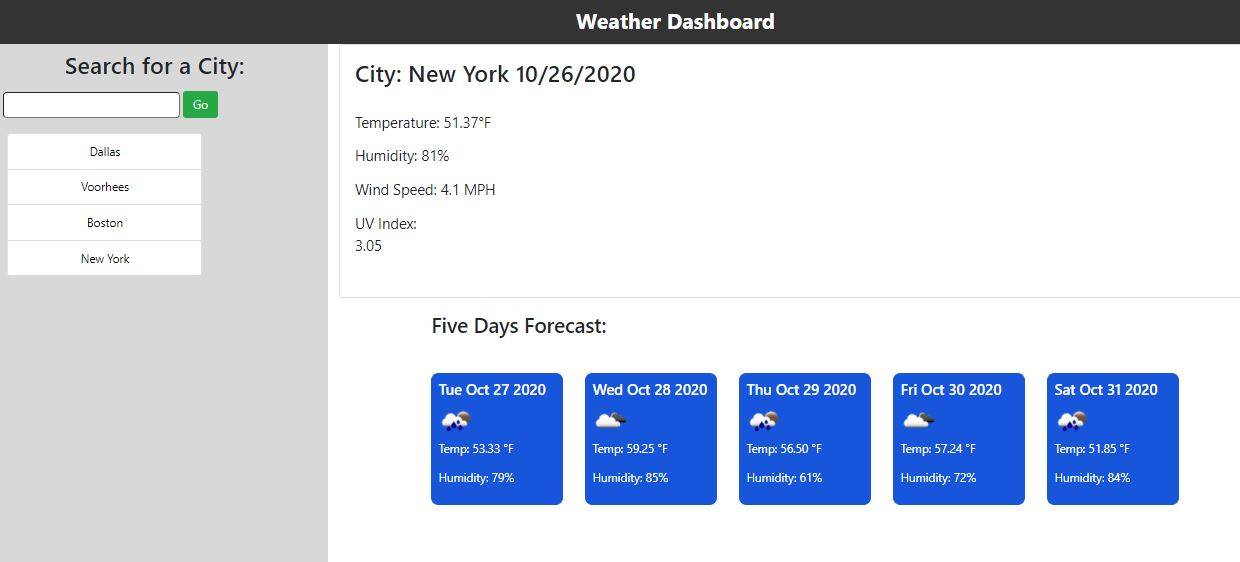
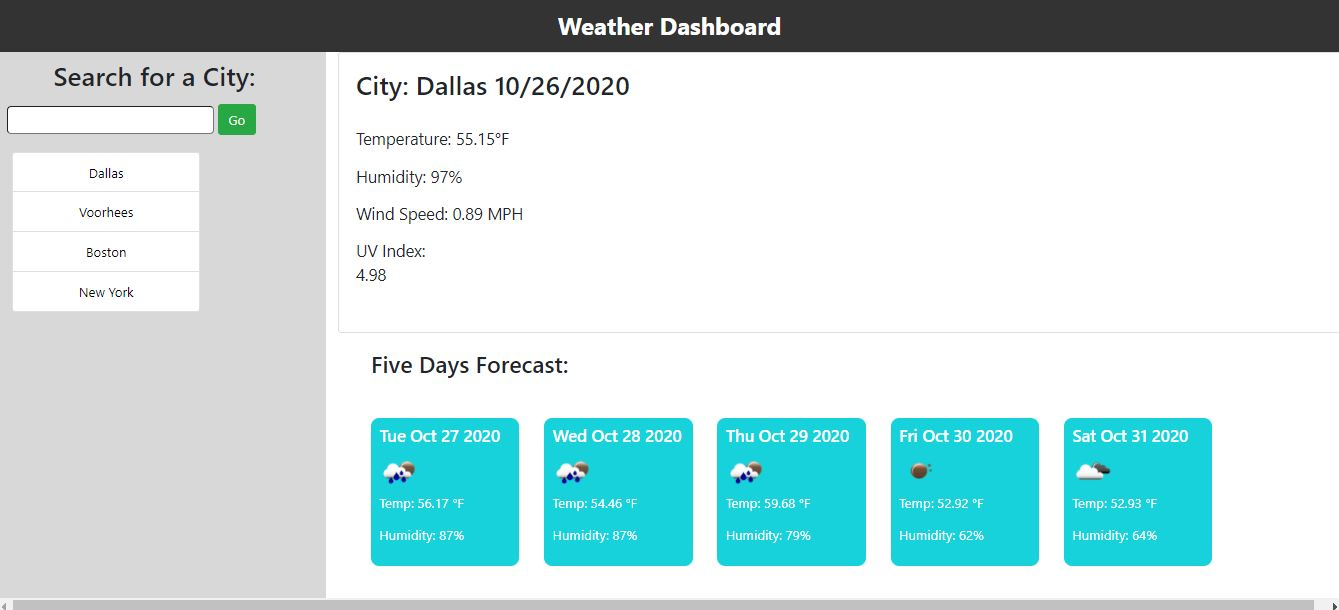
Added correct read me image

Changed region(s): [[0.0, 0.0302, 1.0, 1.0], [0.0, 0.968, 0.0306, 1.0], [0.0613, 0.3932, 0.0919, 0.4235]]

diff --git a/style.css b/style.css
@@ -58,7 +58,7 @@
 .fiveDayForecastDiv {
     width: 180px;
     height: 180px;
-    background-color: rgb(23, 85, 219);
+    background-color: rgb(23, 209, 219);
     border-radius: 10px;
     float:left;
     margin-right: 30px;
